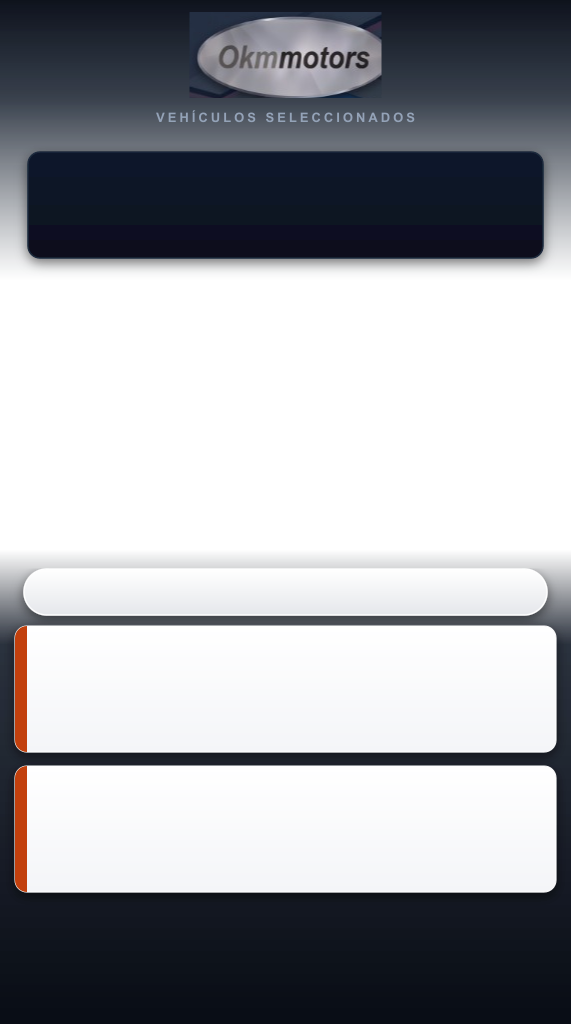
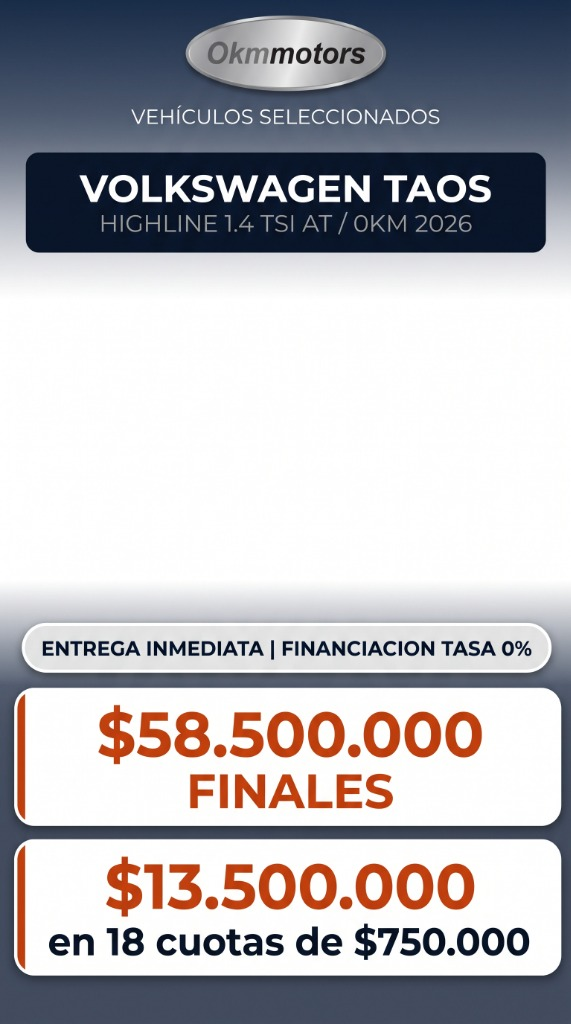
refactor(templates): suplantar plantilla por la imagen original oficial enviada por el usuario

diff --git a/src/components/stock/ad-flyer-preview.tsx b/src/components/stock/ad-flyer-preview.tsx
@@ -264,23 +264,18 @@ export const AdFlyerPreview = forwardRef<AdFlyerPreviewHandle, Props>(function A
     const sx = w / refW
     const sy = h / refH
 
-    // 0. Si hay foto del vehículo, dibujarla centrada en la ventana visual para que se vea TODO el auto completo
+    // 1. Dibujar la plantilla oficial enviada por el usuario como lienzo base
+    ctx.drawImage(baseImg, ox, oy, w, h)
+
+    // 2. Si hay foto del vehículo, dibujarla centrada en el recuadro blanco para que se vea TODO el auto
     if (carImg && carImg.naturalWidth > 0) {
       ctx.save()
 
-      // Fondo base de estudio oscuro
-      const bgGrad = ctx.createLinearGradient(ox, oy, ox, oy + h)
-      bgGrad.addColorStop(0, '#091122')
-      bgGrad.addColorStop(0.5, '#0D1728')
-      bgGrad.addColorStop(1, '#040810')
-      ctx.fillStyle = bgGrad
-      ctx.fillRect(ox, oy, w, h)
-
-      // Ventana visual del auto: entre la caja de título y la cinta (Canonical y: 235..575, h: 340)
+      // Ventana central del auto: espacio blanco de la plantilla (Canonical y: 250..565, h: 315)
       const slotX = ox
-      const slotY = oy + 235 * sy
+      const slotY = oy + 250 * sy
       const slotW = w
-      const slotH = 340 * sy
+      const slotH = 315 * sy
 
       const imgW = carImg.naturalWidth
       const imgH = carImg.naturalHeight
@@ -301,9 +296,6 @@ export const AdFlyerPreview = forwardRef<AdFlyerPreviewHandle, Props>(function A
       ctx.drawImage(carImg, drawX, drawY, drawW, drawH)
       ctx.restore()
     }
-
-    // 1. Dibujar el overlay de la plantilla universal
-    ctx.drawImage(baseImg, ox, oy, w, h)
 
     // 2. Title Box (Canonical x: 28..543, y: 152..258, w: 515, h: 106, rx: 12)
     const titleLeft = ox + 28 * sx
@@ -928,16 +920,20 @@ export const AdFlyerPreview = forwardRef<AdFlyerPreviewHandle, Props>(function A
               className="relative h-full mx-auto shadow-[0_10px_35px_rgba(0,0,0,0.7)] border-x border-white/10 bg-[#070E1A] overflow-hidden"
               style={{ aspectRatio: '571 / 1024', height: '100%' }}>
               
-              {/* Fondo base oscuro */}
-              <div className="absolute inset-0 bg-gradient-to-b from-[#091122] via-[#0D1728] to-[#040810] z-0" />
+              {/* Base Template Image enviada por el usuario */}
+              <img
+                src={templateImage}
+                alt="Plantilla Publicidad Okmmotors"
+                className="absolute inset-0 w-full h-full object-contain pointer-events-none select-none z-0"
+              />
 
-              {/* Foto del auto centrada y completa (sin zoom excesivo) */}
+              {/* Foto del auto centrada y completa en el recuadro blanco de la plantilla */}
               {carPhotoUrl && (
                 <div
-                  className="absolute inset-x-0 z-0 flex items-center justify-center pointer-events-none select-none overflow-hidden"
+                  className="absolute inset-x-0 z-[2] flex items-center justify-center pointer-events-none select-none overflow-hidden"
                   style={{
-                    top: '23.0%',
-                    height: '33.2%'
+                    top: '25.0%',
+                    height: '30.2%'
                   }}>
                   <img
                     src={carPhotoUrl}
@@ -946,13 +942,6 @@ export const AdFlyerPreview = forwardRef<AdFlyerPreviewHandle, Props>(function A
                   />
                 </div>
               )}
-
-              {/* Base Template Overlay Image */}
-              <img
-                src={templateImage}
-                alt="Plantilla Publicidad Okmmotors"
-                className="absolute inset-0 w-full h-full object-contain pointer-events-none select-none z-[1]"
-              />
 
               {/* In-place editable inputs overlay */}
               {renderOverlayInputs()}
@@ -967,16 +956,21 @@ export const AdFlyerPreview = forwardRef<AdFlyerPreviewHandle, Props>(function A
             className="relative rounded-2xl overflow-hidden shadow-2xl border-2 border-[#2A2F45] bg-[#070E1A] flex items-center justify-center transition-all hover:border-[#60A5FA50]"
             style={{ width: '280px', height: '502px' }}>
             
-            {/* Fondo base oscuro */}
-            <div className="absolute inset-0 bg-gradient-to-b from-[#091122] via-[#0D1728] to-[#040810] z-0" />
+            {/* Base Template Image enviada por el usuario */}
+            <img
+              src={templateImage}
+              alt="Plantilla Publicidad Okmmotors"
+              className="absolute inset-0 w-full h-full object-contain pointer-events-none select-none z-0"
+              style={{ width: '280px', height: '502px' }}
+            />
 
-            {/* Foto del auto centrada y completa (sin zoom excesivo) */}
+            {/* Foto del auto centrada y completa en el recuadro blanco de la plantilla */}
             {carPhotoUrl && (
               <div
-                className="absolute inset-x-0 z-0 flex items-center justify-center pointer-events-none select-none overflow-hidden"
+                className="absolute inset-x-0 z-[2] flex items-center justify-center pointer-events-none select-none overflow-hidden"
                 style={{
-                  top: '23.0%',
-                  height: '33.2%'
+                  top: '25.0%',
+                  height: '30.2%'
                 }}>
                 <img
                   src={carPhotoUrl}
@@ -985,14 +979,6 @@ export const AdFlyerPreview = forwardRef<AdFlyerPreviewHandle, Props>(function A
                 />
               </div>
             )}
-
-            {/* Base Template Overlay Image */}
-            <img
-              src={templateImage}
-              alt="Plantilla Publicidad Okmmotors"
-              className="absolute inset-0 w-full h-full object-contain pointer-events-none select-none z-[1]"
-              style={{ width: '280px', height: '502px' }}
-            />
 
             {/* In-place editable inputs overlay */}
             {renderOverlayInputs()}

diff --git a/src/app/api/stock/generate-flyer/route.ts b/src/app/api/stock/generate-flyer/route.ts
@@ -48,27 +48,21 @@ export async function POST(req: NextRequest) {
     const W = 571
     const H = 1024
 
-    // Lienzo base de estudio oscuro 571x1024 (9:16)
-    const baseCanvas = await sharp({
-      create: {
-        width: W,
-        height: H,
-        channels: 4,
-        background: { r: 9, g: 17, b: 34, alpha: 1 }
-      }
-    }).png().toBuffer()
+    // Cargar la plantilla exacta enviada por el usuario como lienzo base
+    const templatePath = path.join(process.cwd(), 'public', 'templates', 'plantilla_universal_clean.png')
+    const templateBuffer = fs.readFileSync(templatePath)
 
-    // Redimensionar foto del auto con fit: 'contain' para que entre COMPLETO en la ventana central (y: 235..575, h: 340)
+    // Redimensionar foto del auto con fit: 'contain' para que entre COMPLETA y centrada en el recuadro blanco (y: 250..565, h: 315)
     const carResized = await sharp(bgBuffer)
-      .resize(W, 340, { fit: 'contain', background: { r: 9, g: 17, b: 34, alpha: 0 } })
+      .resize(W, 315, { fit: 'contain', background: { r: 255, g: 255, b: 255, alpha: 0 } })
       .toBuffer()
 
-    // Montar foto del auto centrada sobre el fondo oscuro
-    const resizedBg = await sharp(baseCanvas)
+    // Montar foto del auto sobre el recuadro blanco de la plantilla del usuario
+    const resizedBg = await sharp(templateBuffer)
       .composite([
         {
           input: carResized,
-          top: 235,
+          top: 250,
           left: 0
         }
       ])
